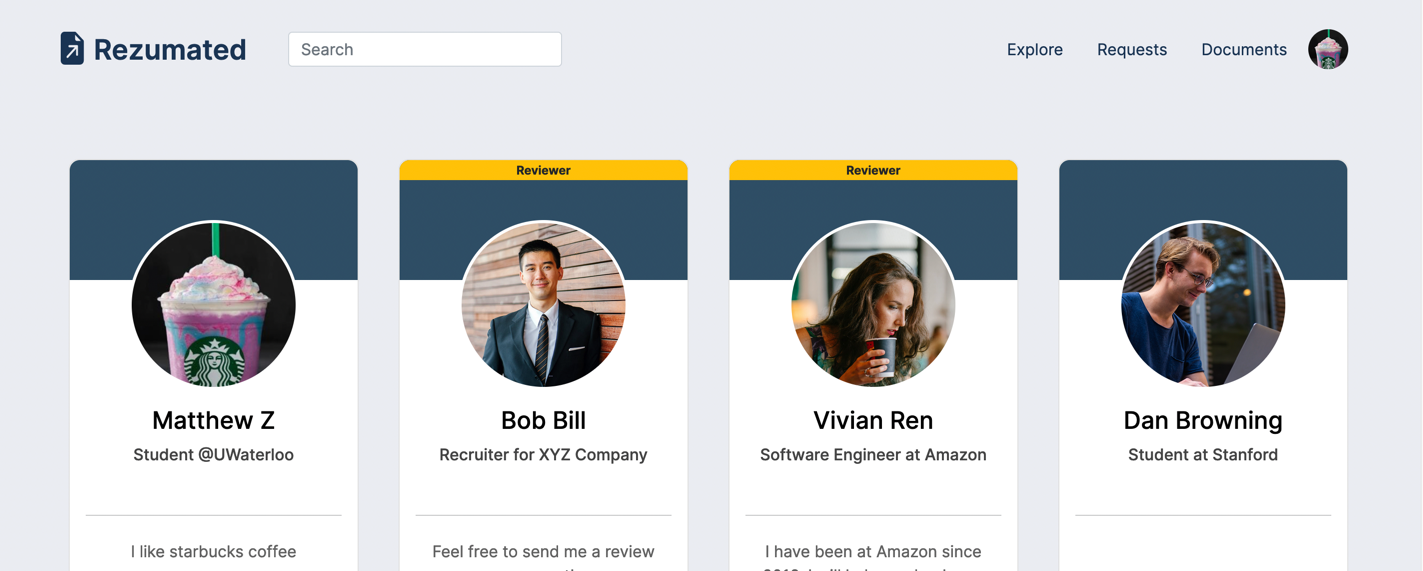
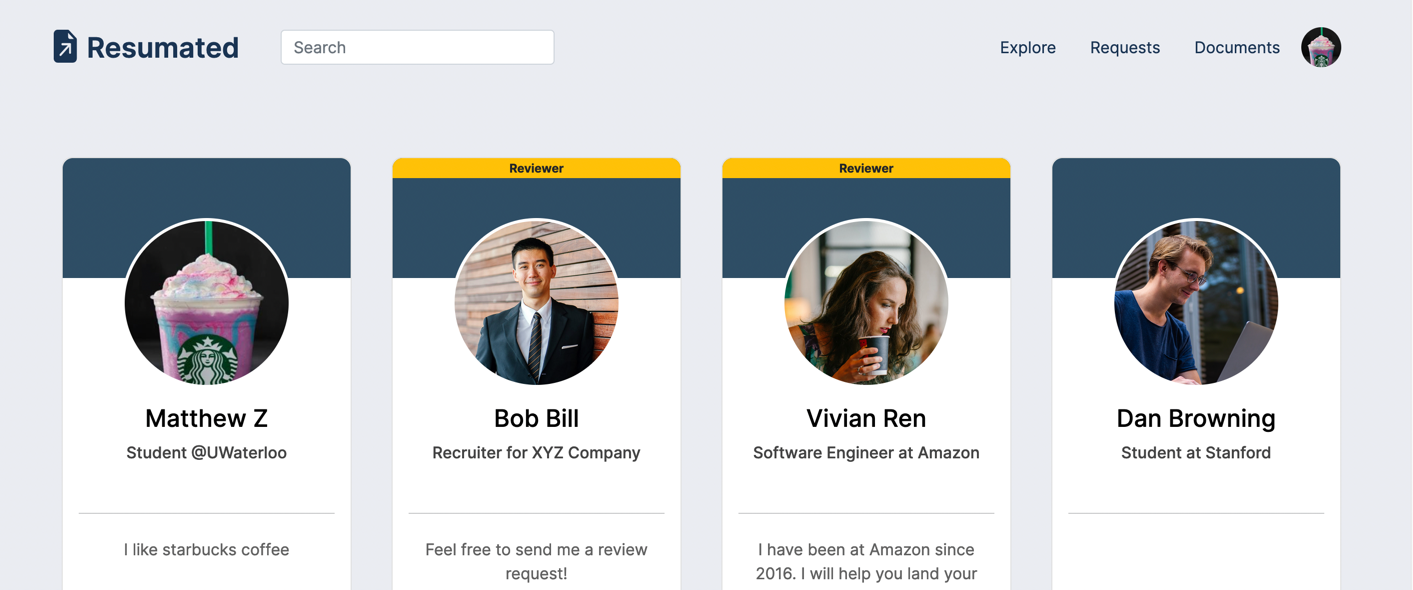
Update references of old project name to resumated

diff --git a/web_app/templates/general/home.html b/web_app/templates/general/home.html
@@ -16,11 +16,11 @@
             Features
         </div>
         <div class="section-header">
-            Why Rezume?
+            Why Resumated?
         </div>
         <div class="section-sub-header">
-            Lorem ipsum dolor sit amet, consectetur adipisicing elit. Alias cumque deserunt, eaque eius facilis iure
-            necessitatibus placeat provident suscipit.
+            A well polished resume can go a long way towards securing your dream job or getting into a program. Resumated
+            was built to make writing a perfect application easy.
         </div>
         <div class="row" style="padding: 50px 40px 80px 40px">
             <div class="col feature-card">
@@ -33,8 +33,8 @@
             <div class="col feature-card">
                 <img src="static/gift-fill.svg" style="height: 50px">
                 <div class="feature-card-title">Free To Use</div>
-                <div>Getting your resumes or applications ready to submit is hard. Create an account to get the help you
-                    need for free.
+                <div>Getting your resumes or applications ready to submit is hard. Create a free account to get the help you
+                    need.
                 </div>
             </div>
             <div class="col feature-card">

diff --git a/web_app/templates/base.html b/web_app/templates/base.html
@@ -2,7 +2,7 @@
 <html lang="en">
 <head>
     <meta charset="UTF-8">
-    <title>Rezume</title>
+    <title>Resumated</title>
     <link href="https://cdn.jsdelivr.net/npm/bootstrap@5.1.3/dist/css/bootstrap.min.css" rel="stylesheet"
           integrity="sha384-1BmE4kWBq78iYhFldvKuhfTAU6auU8tT94WrHftjDbrCEXSU1oBoqyl2QvZ6jIW3" crossorigin="anonymous">
     <link rel="stylesheet" href="https://cdn.jsdelivr.net/npm/bootstrap-icons@1.3.0/font/bootstrap-icons.css">
@@ -13,7 +13,7 @@
         <div class="d-flex align-items-center">
             <img src="/static/logo.svg" style="width: 25px; height: 35px;">
             <a class="navbar-brand ms-2" style="font-size: 28px; font-weight: 600; color: #193453;"
-               href="{{ url_for('general.home') }}">Rezumated</a>
+               href="{{ url_for('general.home') }}">Resumated</a>
             {% if current_user.is_authenticated and request.endpoint == 'general.home' %}
                 <form class="d-flex" style="display: block; margin: auto 0 auto 25px; height: 35px;" method="post"
                       enctype="multipart/form-data">

diff --git a/web_app/templates/homebase.html b/web_app/templates/homebase.html
@@ -2,7 +2,7 @@
 <html lang="en">
 <head>
     <meta charset="UTF-8">
-    <title>Rezume</title>
+    <title>Resumated</title>
     <link href="https://cdn.jsdelivr.net/npm/bootstrap@5.1.3/dist/css/bootstrap.min.css" rel="stylesheet"
           integrity="sha384-1BmE4kWBq78iYhFldvKuhfTAU6auU8tT94WrHftjDbrCEXSU1oBoqyl2QvZ6jIW3" crossorigin="anonymous">
     <link rel="stylesheet" href="https://cdn.jsdelivr.net/npm/bootstrap-icons@1.3.0/font/bootstrap-icons.css">
@@ -12,7 +12,7 @@
     <div class="container">
         <div class="d-flex align-items-center">
             <img src="/static/light_logo.svg" style="width: 25px; height: 35px;">
-            <a class="navbar-brand ms-2" style="font-size: 28px;" href="{{ url_for('general.home') }}">Rezumated</a>
+            <a class="navbar-brand ms-2" style="font-size: 28px;" href="{{ url_for('general.home') }}">Resumated</a>
         </div>
         <div class="d-flex align-items-center">
             <a href="{{ url_for('auth.login') }}" style="color: white;" class="btn me-2">Login</a>
